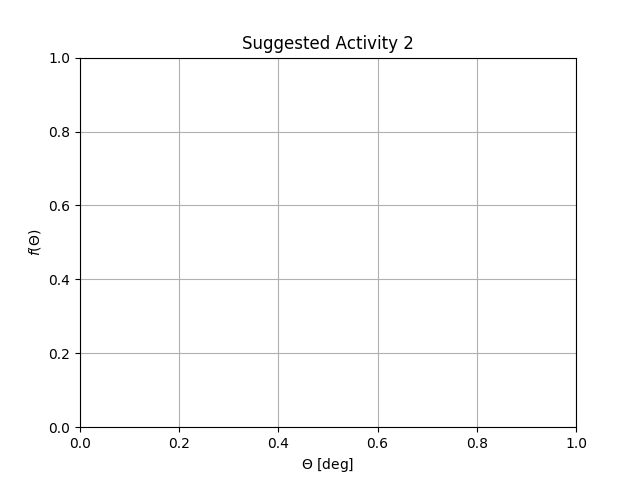
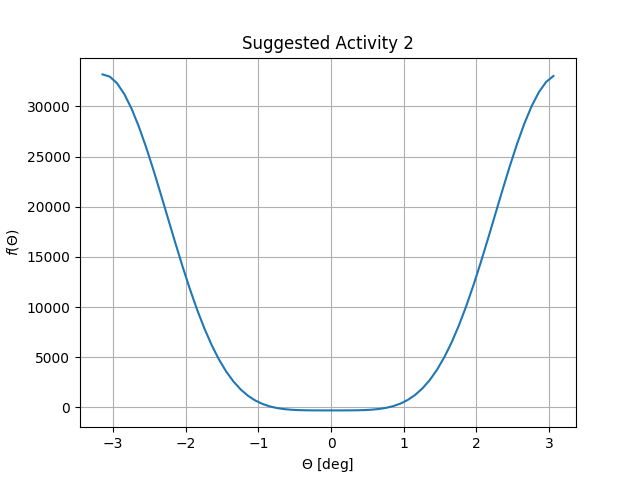
Setti upp beinagrind að Suggested Activity 4

diff --git a/v1.py b/v1.py
@@ -47,7 +47,6 @@ theta0 = np.pi/4
 #print(f(0))
 #print(f(np.pi))
 
-
 '''
 Suggested Activity 2
 Plots f(θ) on [−π,π].
@@ -57,17 +56,14 @@ Maetti teikna thad staerra eda skyrar...
 '''
 t2 = np.arange(-np.pi, np.pi, 0.1)
 
-#fig2, ax2 = plt.subplots()
-#ax2.plot(t2, f(t2))
-
-#ax2.set(xlabel=r"${\Theta}$ [deg]", 
-#        ylabel="$f({\Theta})$",
-#        title ='Suggested Activity 2')
-#ax2.grid()
-
-#fig2.savefig("sa2.png")
-#plt.show()
-
+fig2, ax2 = plt.subplots()
+ax2.plot(t2, f(t2))
+ax2.set(xlabel=r"${\Theta}$ [deg]", 
+        ylabel="$f({\Theta})$",
+        title ='Suggested Activity 2')
+ax2.grid()
+fig2.savefig("sa2.png")
+plt.show()
 
 
 '''
@@ -143,3 +139,17 @@ xL3, yL3 = 3, 2
 plotName = "sa3b"
 plotTitle = 'Suggested Activity 3 (b)'
 plotStewartPlatform(x, y, x1, x2, y2, xL2, yL2, xL3, yL3, plotTitle, plotName)
+
+'''
+Suggested Activity 4
+Solve the forward kinematics problem for the planar Stewart platform.
+Plot f(theta) and then solve f(theta) = 0
+'''
+# Parameters
+x1 = 5 
+x2, y2 = 0, 6
+L1 = L3 = 3 
+L2 = 3*np.sqrt(2)
+gamma = np.pi/4
+p1 = p2 = 5
+p3 = 3
